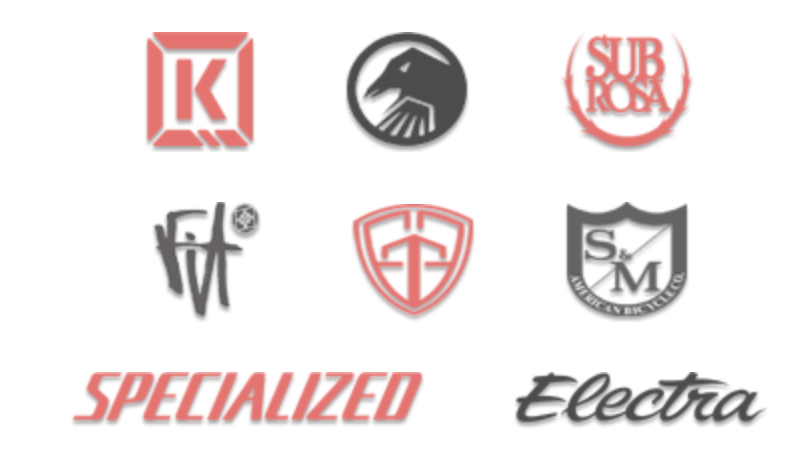
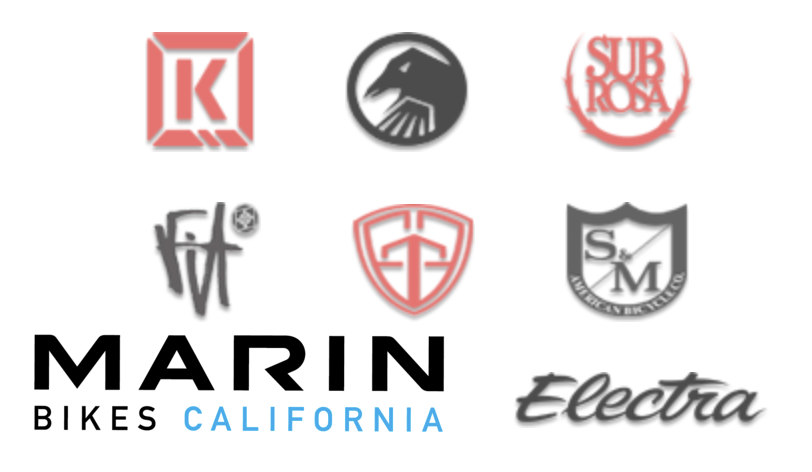
done fixed images and left product sorting code

Changed region(s): [[0.0308, 0.7119, 0.5542, 0.9195]]

diff --git a/assets/js/breakpoints.min.js b/assets/js/breakpoints.min.js
@@ -1,2 +1,1 @@
-/* breakpoints.js v1.0 | @ajlkn | MIT licensed */
 var breakpoints=function(){"use strict";function e(e){t.init(e)}var t={list:null,media:{},events:[],init:function(e){t.list=e,window.addEventListener("resize",t.poll),window.addEventListener("orientationchange",t.poll),window.addEventListener("load",t.poll),window.addEventListener("fullscreenchange",t.poll)},active:function(e){var n,a,s,i,r,d,c;if(!(e in t.media)){if(">="==e.substr(0,2)?(a="gte",n=e.substr(2)):"<="==e.substr(0,2)?(a="lte",n=e.substr(2)):">"==e.substr(0,1)?(a="gt",n=e.substr(1)):"<"==e.substr(0,1)?(a="lt",n=e.substr(1)):"!"==e.substr(0,1)?(a="not",n=e.substr(1)):(a="eq",n=e),n&&n in t.list)if(i=t.list[n],Array.isArray(i)){if(r=parseInt(i[0]),d=parseInt(i[1]),isNaN(r)){if(isNaN(d))return;c=i[1].substr(String(d).length)}else c=i[0].substr(String(r).length);if(isNaN(r))switch(a){case"gte":s="screen";break;case"lte":s="screen and (max-width: "+d+c+")";break;case"gt":s="screen and (min-width: "+(d+1)+c+")";break;case"lt":s="screen and (max-width: -1px)";break;case"not":s="screen and (min-width: "+(d+1)+c+")";break;default:s="screen and (max-width: "+d+c+")"}else if(isNaN(d))switch(a){case"gte":s="screen and (min-width: "+r+c+")";break;case"lte":s="screen";break;case"gt":s="screen and (max-width: -1px)";break;case"lt":s="screen and (max-width: "+(r-1)+c+")";break;case"not":s="screen and (max-width: "+(r-1)+c+")";break;default:s="screen and (min-width: "+r+c+")"}else switch(a){case"gte":s="screen and (min-width: "+r+c+")";break;case"lte":s="screen and (max-width: "+d+c+")";break;case"gt":s="screen and (min-width: "+(d+1)+c+")";break;case"lt":s="screen and (max-width: "+(r-1)+c+")";break;case"not":s="screen and (max-width: "+(r-1)+c+"), screen and (min-width: "+(d+1)+c+")";break;default:s="screen and (min-width: "+r+c+") and (max-width: "+d+c+")"}}else s="("==i.charAt(0)?"screen and "+i:i;t.media[e]=!!s&&s}return t.media[e]!==!1&&window.matchMedia(t.media[e]).matches},on:function(e,n){t.events.push({query:e,handler:n,state:!1}),t.active(e)&&n()},poll:function(){var e,n;for(e=0;e<t.events.length;e++)n=t.events[e],t.active(n.query)?n.state||(n.state=!0,n.handler()):n.state&&(n.state=!1)}};return e._=t,e.on=function(e,n){t.on(e,n)},e.active=function(e){return t.active(e)},e}();!function(e,t){"function"==typeof define&&define.amd?define([],t):"object"==typeof exports?module.exports=t():e.breakpoints=t()}(this,function(){return breakpoints});

diff --git a/assets/js/browser.min.js b/assets/js/browser.min.js
@@ -1,2 +1,1 @@
-/* browser.js v1.0.1 | @ajlkn | MIT licensed */
 var browser=function(){"use strict";var t={name:null,version:null,os:null,osVersion:null,touch:null,mobile:null,_canUse:null,canUse:function(e){t._canUse||(t._canUse=document.createElement("div"));var n=t._canUse.style,r=e.charAt(0).toUpperCase()+e.slice(1);return e in n||"Moz"+r in n||"Webkit"+r in n||"O"+r in n||"ms"+r in n},init:function(){for(var e=navigator.userAgent,n="other",r=0,i=[["firefox",/Firefox\/([0-9\.]+)/],["bb",/BlackBerry.+Version\/([0-9\.]+)/],["bb",/BB[0-9]+.+Version\/([0-9\.]+)/],["opera",/OPR\/([0-9\.]+)/],["opera",/Opera\/([0-9\.]+)/],["edge",/Edge\/([0-9\.]+)/],["safari",/Version\/([0-9\.]+).+Safari/],["chrome",/Chrome\/([0-9\.]+)/],["ie",/MSIE ([0-9]+)/],["ie",/Trident\/.+rv:([0-9]+)/]],o=0;o<i.length;o++)if(e.match(i[o][1])){n=i[o][0],r=parseFloat(RegExp.$1);break}for(t.name=n,t.version=r,n="other",i=[["ios",/([0-9_]+) like Mac OS X/,function(e){return e.replace("_",".").replace("_","")}],["ios",/CPU like Mac OS X/,function(e){return 0}],["wp",/Windows Phone ([0-9\.]+)/,null],["android",/Android ([0-9\.]+)/,null],["mac",/Macintosh.+Mac OS X ([0-9_]+)/,function(e){return e.replace("_",".").replace("_","")}],["windows",/Windows NT ([0-9\.]+)/,null],["bb",/BlackBerry.+Version\/([0-9\.]+)/,null],["bb",/BB[0-9]+.+Version\/([0-9\.]+)/,null],["linux",/Linux/,null],["bsd",/BSD/,null],["unix",/X11/,null]],o=r=0;o<i.length;o++)if(e.match(i[o][1])){n=i[o][0],r=parseFloat(i[o][2]?i[o][2](RegExp.$1):RegExp.$1);break}"mac"==n&&"ontouchstart"in window&&(1024==screen.width&&1366==screen.height||834==screen.width&&1112==screen.height||810==screen.width&&1080==screen.height||768==screen.width&&1024==screen.height)&&(n="ios"),t.os=n,t.osVersion=r,t.touch="wp"==t.os?0<navigator.msMaxTouchPoints:!!("ontouchstart"in window),t.mobile="wp"==t.os||"android"==t.os||"ios"==t.os||"bb"==t.os}};return t.init(),t}();!function(e,n){"function"==typeof define&&define.amd?define([],n):"object"==typeof exports?module.exports=n():e.browser=n()}(this,function(){return browser});
